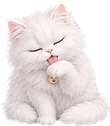
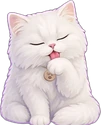
Iris: new sprite pack (colour-matched, per-sheet scale), 12-frame walk cycle

diff --git a/src/core/iris-frames.js b/src/core/iris-frames.js
@@ -1,5 +1,5 @@
 // Generated by scripts/build-sprites.py - do not edit by hand.
 (() => {
   const AM = globalThis.AIMeter;
-  AM.IRIS_FRAMES = {"sit": {"w": 46.0, "h": 64.0, "ax": 22.8, "ay": 1.5}, "sit-blink": {"w": 46.0, "h": 63.0, "ax": 24.7, "ay": 1.5}, "walk-1": {"w": 86.5, "h": 79.5, "ax": 44.8, "ay": 1.5}, "walk-2": {"w": 73.5, "h": 77.0, "ax": 36.2, "ay": 1.5}, "walk-3": {"w": 74.0, "h": 77.0, "ax": 35.1, "ay": 1.5}, "walk-4": {"w": 72.0, "h": 79.0, "ax": 35.9, "ay": 1.5}, "teeter": {"w": 72.5, "h": 72.5, "ax": 36.2, "ay": 0}, "fall": {"w": 73.0, "h": 83.5, "ax": 36.6, "ay": 0}, "jump": {"w": 109.5, "h": 62.5, "ax": 54.7, "ay": 0}, "sleep": {"w": 87.0, "h": 52.5, "ax": 42.1, "ay": 1.5}, "sit-happy": {"w": 47.5, "h": 63.0, "ax": 25.3, "ay": 1.5}, "sit-worried": {"w": 49.0, "h": 61.5, "ax": 26.5, "ay": 1.5}, "sit-stressed": {"w": 47.5, "h": 59.5, "ax": 24.7, "ay": 1.5}, "dazed": {"w": 60.0, "h": 62.0, "ax": 29.9, "ay": 0}, "crouch": {"w": 77.0, "h": 78.0, "ax": 40.6, "ay": 1.5}, "groom": {"w": 55.0, "h": 63.0, "ax": 25.1, "ay": 1.5}, "mew": {"w": 48.5, "h": 64.0, "ax": 24.8, "ay": 1.5}, "purr": {"w": 49.5, "h": 63.0, "ax": 26.0, "ay": 1.5}, "stretch": {"w": 74.5, "h": 87.0, "ax": 36.1, "ay": 1.5}, "sleep-2": {"w": 89.0, "h": 51.5, "ax": 42.3, "ay": 1.5}};
+  AM.IRIS_FRAMES = {"sit": {"w": 43.9, "h": 61.5, "ax": 22.0, "ay": 1.5}, "sit-blink": {"w": 43.9, "h": 61.5, "ax": 22.0, "ay": 1.5}, "walk-1": {"w": 86.5, "h": 79.5, "ax": 44.8, "ay": 1.5}, "walk-2": {"w": 73.5, "h": 77.0, "ax": 36.2, "ay": 1.5}, "walk-3": {"w": 74.0, "h": 77.0, "ax": 35.1, "ay": 1.5}, "walk-4": {"w": 72.0, "h": 79.0, "ax": 35.9, "ay": 1.5}, "teeter": {"w": 81.2, "h": 75.3, "ax": 40.6, "ay": 0}, "fall": {"w": 69.8, "h": 74.8, "ax": 34.9, "ay": 0}, "jump": {"w": 91.7, "h": 60.9, "ax": 45.9, "ay": 0}, "sleep": {"w": 84.8, "h": 49.8, "ax": 42.4, "ay": 1.5}, "sit-happy": {"w": 44.1, "h": 61.5, "ax": 22.1, "ay": 1.5}, "sit-worried": {"w": 47.7, "h": 61.1, "ax": 23.8, "ay": 1.5}, "sit-stressed": {"w": 49.6, "h": 61.1, "ax": 24.8, "ay": 1.5}, "dazed": {"w": 61.5, "h": 60.1, "ax": 30.7, "ay": 0}, "crouch": {"w": 87.8, "h": 68.4, "ax": 43.9, "ay": 1.5}, "groom": {"w": 50.4, "h": 62.6, "ax": 25.2, "ay": 1.5}, "mew": {"w": 44.9, "h": 62.1, "ax": 22.5, "ay": 1.5}, "purr": {"w": 46.9, "h": 62.4, "ax": 23.4, "ay": 1.5}, "stretch": {"w": 83.4, "h": 86.7, "ax": 41.7, "ay": 1.5}, "sleep-2": {"w": 80.1, "h": 56.7, "ax": 40.0, "ay": 1.5}};
 })();

diff --git a/src/core/pet.js b/src/core/pet.js
@@ -12,7 +12,7 @@
   const FRONT = new Set(['sit', 'sit-blink', 'sit-happy', 'sit-worried', 'sit-stressed', 'mew', 'purr', 'groom', 'dazed', 'fall']);
   const REST = new Set(['sit', 'sit-blink', 'sit-happy', 'sit-worried', 'sit-stressed', 'mew', 'purr', 'groom']);
   const WALK = ['walk-1', 'walk-2', 'walk-3', 'walk-4'];
-  const WALK8 = ['walk8-1', 'walk8-2', 'walk8-3', 'walk8-4', 'walk8-5', 'walk8-6', 'walk8-7', 'walk8-8'];
+  const WALK8 = ['walk8-1', 'walk8-2', 'walk8-3', 'walk8-4', 'walk8-5', 'walk8-6', 'walk8-7', 'walk8-8', 'walk8-9', 'walk8-10', 'walk8-11', 'walk8-12'];
   const BOX_W = 48;
   const BOX_H = 66;
   const CANCEL = Symbol('cancel');
@@ -212,9 +212,9 @@
       } else if (walkOn) {
         const C = cycle(), n = C.length, p = ((phase % n) + n) % n, i = Math.floor(p);
         base = C[i]; over = C[(i + 1) % n];
-        overA = smooth(n === 8 ? 0.6 : 0.45, 1, p - i); // short blend into the next pose at the end of each frame
+        overA = smooth(n >= 8 ? 0.6 : 0.45, 1, p - i); // short blend into the next pose at the end of each frame
         // 8-frame art already carries its own body bob; the old 4 frames need it added
-        bob = -(n === 8 ? 0.5 : 1.3) * gaitAmp * (0.5 - 0.5 * Math.cos((Math.PI * phase * 4) / n));
+        bob = -(n >= 8 ? 0.5 : 1.3) * gaitAmp * (0.5 - 0.5 * Math.cos((Math.PI * phase * 4) / n));
         rot.t = 0;
       } else {
         bob *= Math.max(0, 1 - s * 12);
@@ -294,7 +294,7 @@
       const hopping = gait() === 'hop';
       const eight = gait() === 'walk8';
       // px per hop / per walk frame (8-frame cycle ≈ 12 fps calm, ≈ 16 fps stressed)
-      const stride = hurry ? (hopping ? 16 : eight ? 5.5 : 7) : hopping ? (mood === 'stressed' ? 11 : 9) : eight ? (mood === 'stressed' ? 3.2 : 2.35) : mood === 'stressed' ? 4.4 : 3.5;
+      const stride = hurry ? (hopping ? 16 : eight ? 8.25 : 7) : hopping ? (mood === 'stressed' ? 11 : 9) : eight ? (mood === 'stressed' ? 4.8 : 3.5) : mood === 'stressed' ? 4.4 : 3.5;
       await run((s) => {
         const rem = (tx - x) * d;
         if (rem <= 0.2) return true;

diff --git a/src/core/walk8-frames.js b/src/core/walk8-frames.js
@@ -1,9 +1,10 @@
-// 8-frame walk cycle (hand-maintained; scripts/build-sprites.py doesn't generate it). All frames share
-// one canvas, nose- and paw-aligned. Side view facing right; the engine mirrors them for walking left.
+// 12-frame walk cycle (hand-maintained; scripts/build-sprites.py doesn't generate it). All frames share
+// one canvas, paw-aligned. Side view facing right; the engine mirrors them for walking left.
 (() => {
   const AM = globalThis.AIMeter;
   AM.IRIS_FRAMES = AM.IRIS_FRAMES || {};
-  for (let i = 1; i <= 8; i++) {
-    AM.IRIS_FRAMES['walk8-' + i] = { file: 'walk8-' + i + '.webp', w: 92.5, h: 82.5, ax: 47.5, ay: 1.5 };
+  const W = {"w": 85.8, "h": 69.9, "ax": 42.9, "ay": 1.5};
+  for (let i = 1; i <= 12; i++) {
+    AM.IRIS_FRAMES['walk8-' + i] = Object.assign({ file: 'walk8-' + i + '.webp' }, W);
   }
 })();
